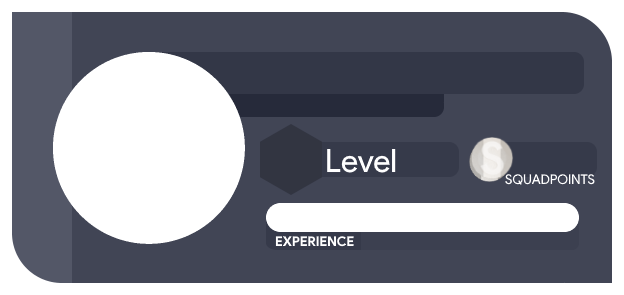
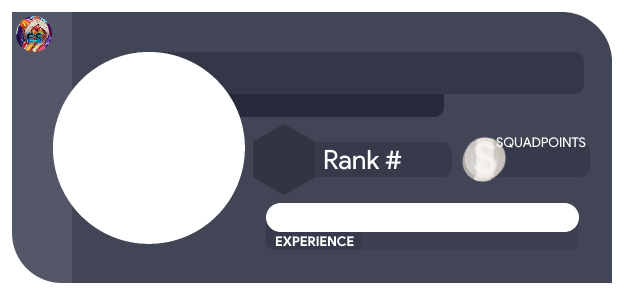
added prototype FP.level command

Changed region(s): [[0.7308, 0.4576, 0.9744, 0.6407], [0.5176, 0.4881, 0.6394, 0.5797], [0.0, 0.0305, 0.0913, 0.1831]]

diff --git a/generateCard.js b/generateCard.js
@@ -3,15 +3,17 @@ const fs = require("fs")
 var Request = require('pixl-request');
 registerFont('./statCards/Product Sans Regular.ttf', {family: 'Product Sans'});
 
-//generateCard = function(xp, points, level, avatarURL, username, nickname, maxXP, userID) {
-
-xp = 40
-maxXP = 50
-avatarURL = "https://cdn.discordapp.com/avatars/275345779823214592/83e3e6a2a5812eec5e5f6f69ca489ab4.png?size=1024"
-level = 10
-userID = 50
-username = "Logandev_#9999"
-nickname = "Logie uwu"
+generateCard = function(xp, level, avatarURL, username, nickname, currentXP, maxXP, userID, squadpoints, rank) {
+return new Promise(function(resolve, reject) {
+//xp = 3180
+//maxXP = 19200
+//avatarURL = "https://cdn.discordapp.com/avatars/314576267884101634/bb69f3f13d1f231e3cb38a1c89cce7a7.png?size=1024"
+//level = 57
+//userID = 314576267884101634
+//username = "Logandev_#9999"
+//nickname = "Logan xd"
+//squadpoints = 5
+//rank = 2
 
   const canvas = createCanvas(624, 295);
   const ctx = canvas.getContext('2d')
@@ -19,7 +21,7 @@ nickname = "Logie uwu"
     ctx.drawImage(image, 0, 0, 624, 295)
     var request = new Request();
     var url = avatarURL
-    request.get( url, function(err, resp, data) {
+    request.get(url, function(err, resp, data) {
       if (err) throw err;
 
       var avatar = new Image();
@@ -27,23 +29,34 @@ nickname = "Logie uwu"
       ctx.drawImage(avatar, 43, 43, 211, 204);
       ctx.fillStyle = "#66B7FF";
       loadImage('./statCards/final/foreground.png').then((frontImage) => {
-        ctx.fillRect(266,203, (313/maxXP)*xp,29);
+        ctx.fillRect(266,203, (313/maxXP)*currentXP,29);
         ctx.drawImage(frontImage, 0, 0, 624, 295)
         loadImage('./statCards/final/level/' + level + '.png').then((level) => {
-          ctx.drawImage(level, 251, 120, 80, 80)
+          ctx.drawImage(level, 244, 120, 80, 80)
           ctx.fillStyle = "#ffffff";
           ctx.font = '17px "Product Sans"'
           ctx.fillText(username, 245, 111);
           ctx.font = '34px "Product Sans" bold'
           ctx.fillText(nickname, 237, 83);
+          ctx.font = '30px "Product Sans" bold'
+          ctx.fillText(squadpoints, 509, 172);
+          ctx.fillText(rank, 402, 170);
+          ctx.font = '15px "Product Sans" bold'
+          ctx.textAlign="end";
+          ctx.fillText(currentXP + " / " + maxXP + " XP", 570, 246);
+          loadImage('./statCards/final/Highground.png').then((topImage) => {
+            ctx.drawImage(topImage, 0, 0, 624, 295)
           const out = fs.createWriteStream(__dirname + '/userCards/' + userID + '.png')
           const stream = canvas.createPNGStream()
           stream.pipe(out)
           out.on('finish', () =>  {
             console.log("rendered stat card for " + userID)
+            resolve(userID);
           })
         })
       })
+      })
     })
   })
-//}
+})
+}

diff --git a/commands/tools/level.js b/commands/tools/level.js
@@ -1,0 +1,34 @@
+exports.run = (client, message, args) => {
+  require("../../generateCard.js")
+  const fetch = require('node-fetch');
+  var user;
+  if (message.mentions.users.size > 0) {
+      user = message.mentions.users.first()
+  } else {
+    user = message.author
+  }
+  fetch('https://mee6.xyz/api/plugins/levels/leaderboard/301615194520551426')
+    .then(res => res.json())
+    .then(json => {
+      data = json.players.find(function(info) {
+        return info.id === user.id;
+      });
+      rank = json.players.findIndex(function(info) {
+        return info.id === user.id;
+      });
+
+      //message.channel.send("``" + "xp: " + data.xp + ", level: " + data.level +  "``")
+      generateCard(data.xp, data.level, user.avatarURL({size: 1024, format: "png"}), user.tag, message.guild.members.get(user.id).displayName, data.detailed_xp[0], data.detailed_xp[1], user.id, 5, rank+1).then(id => {
+        const attachment = new Discord.MessageAttachment('./userCards/' + id + '.png');
+        message.channel.send("", attachment)
+      })
+    });
+}
+exports.info = {
+  name: "Level",
+  description: "Displays your rank",
+  aliases: [],
+  guildOnly: true,
+  category: "Tools",
+  hidden: false
+}
